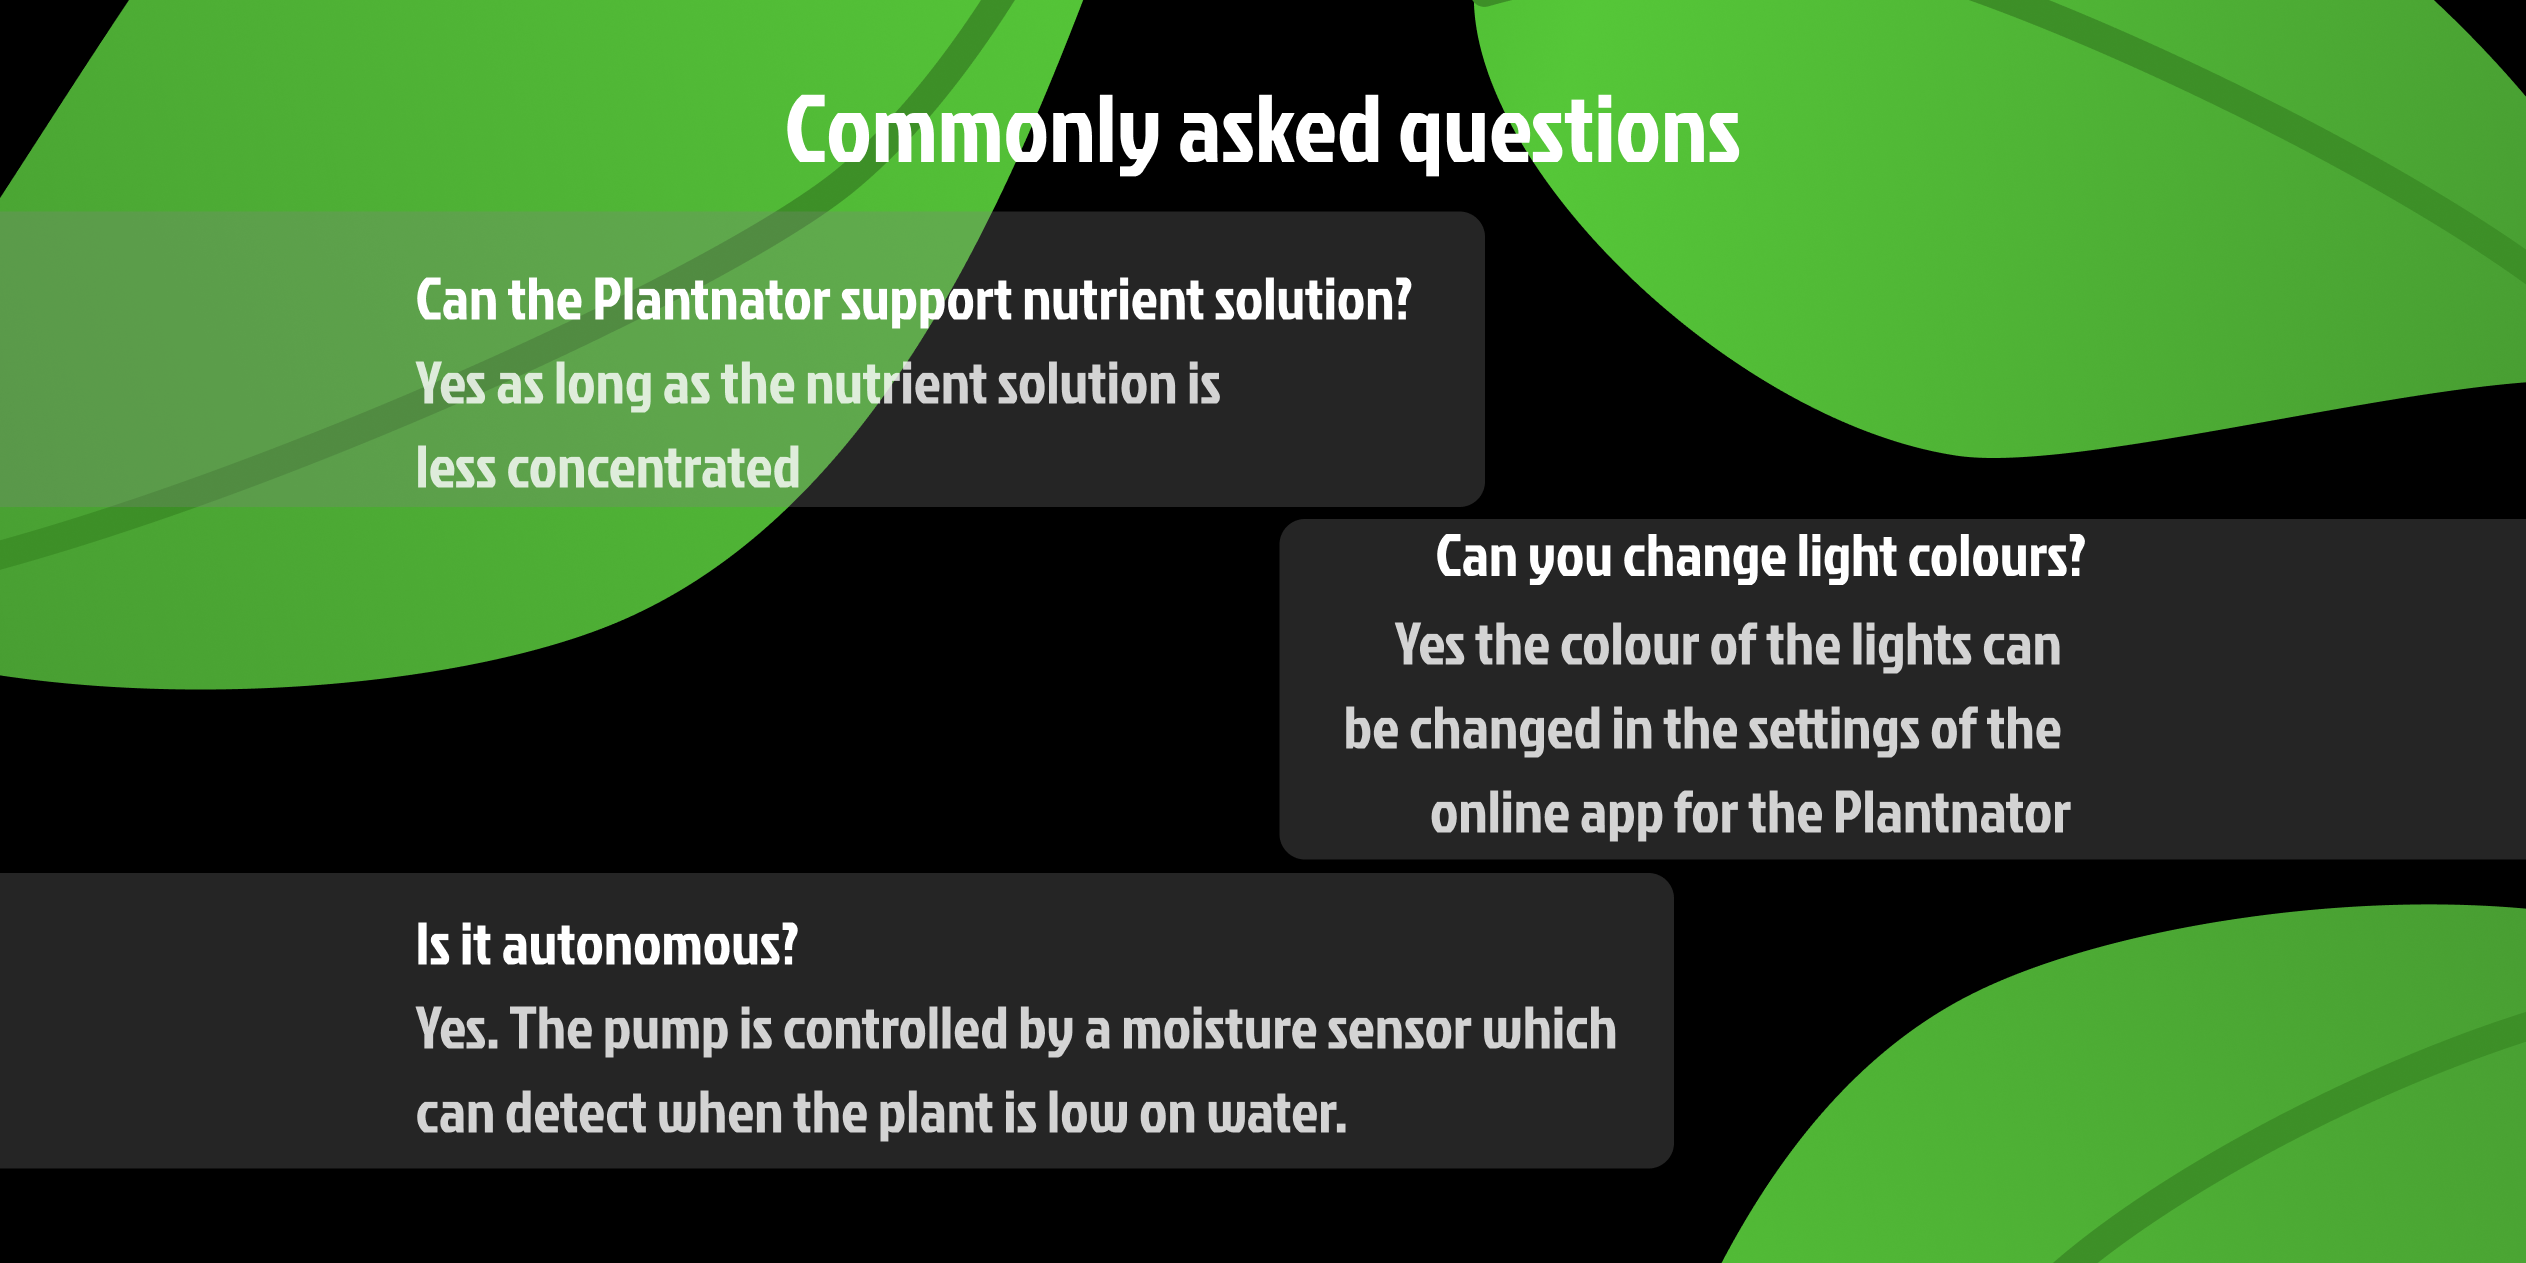
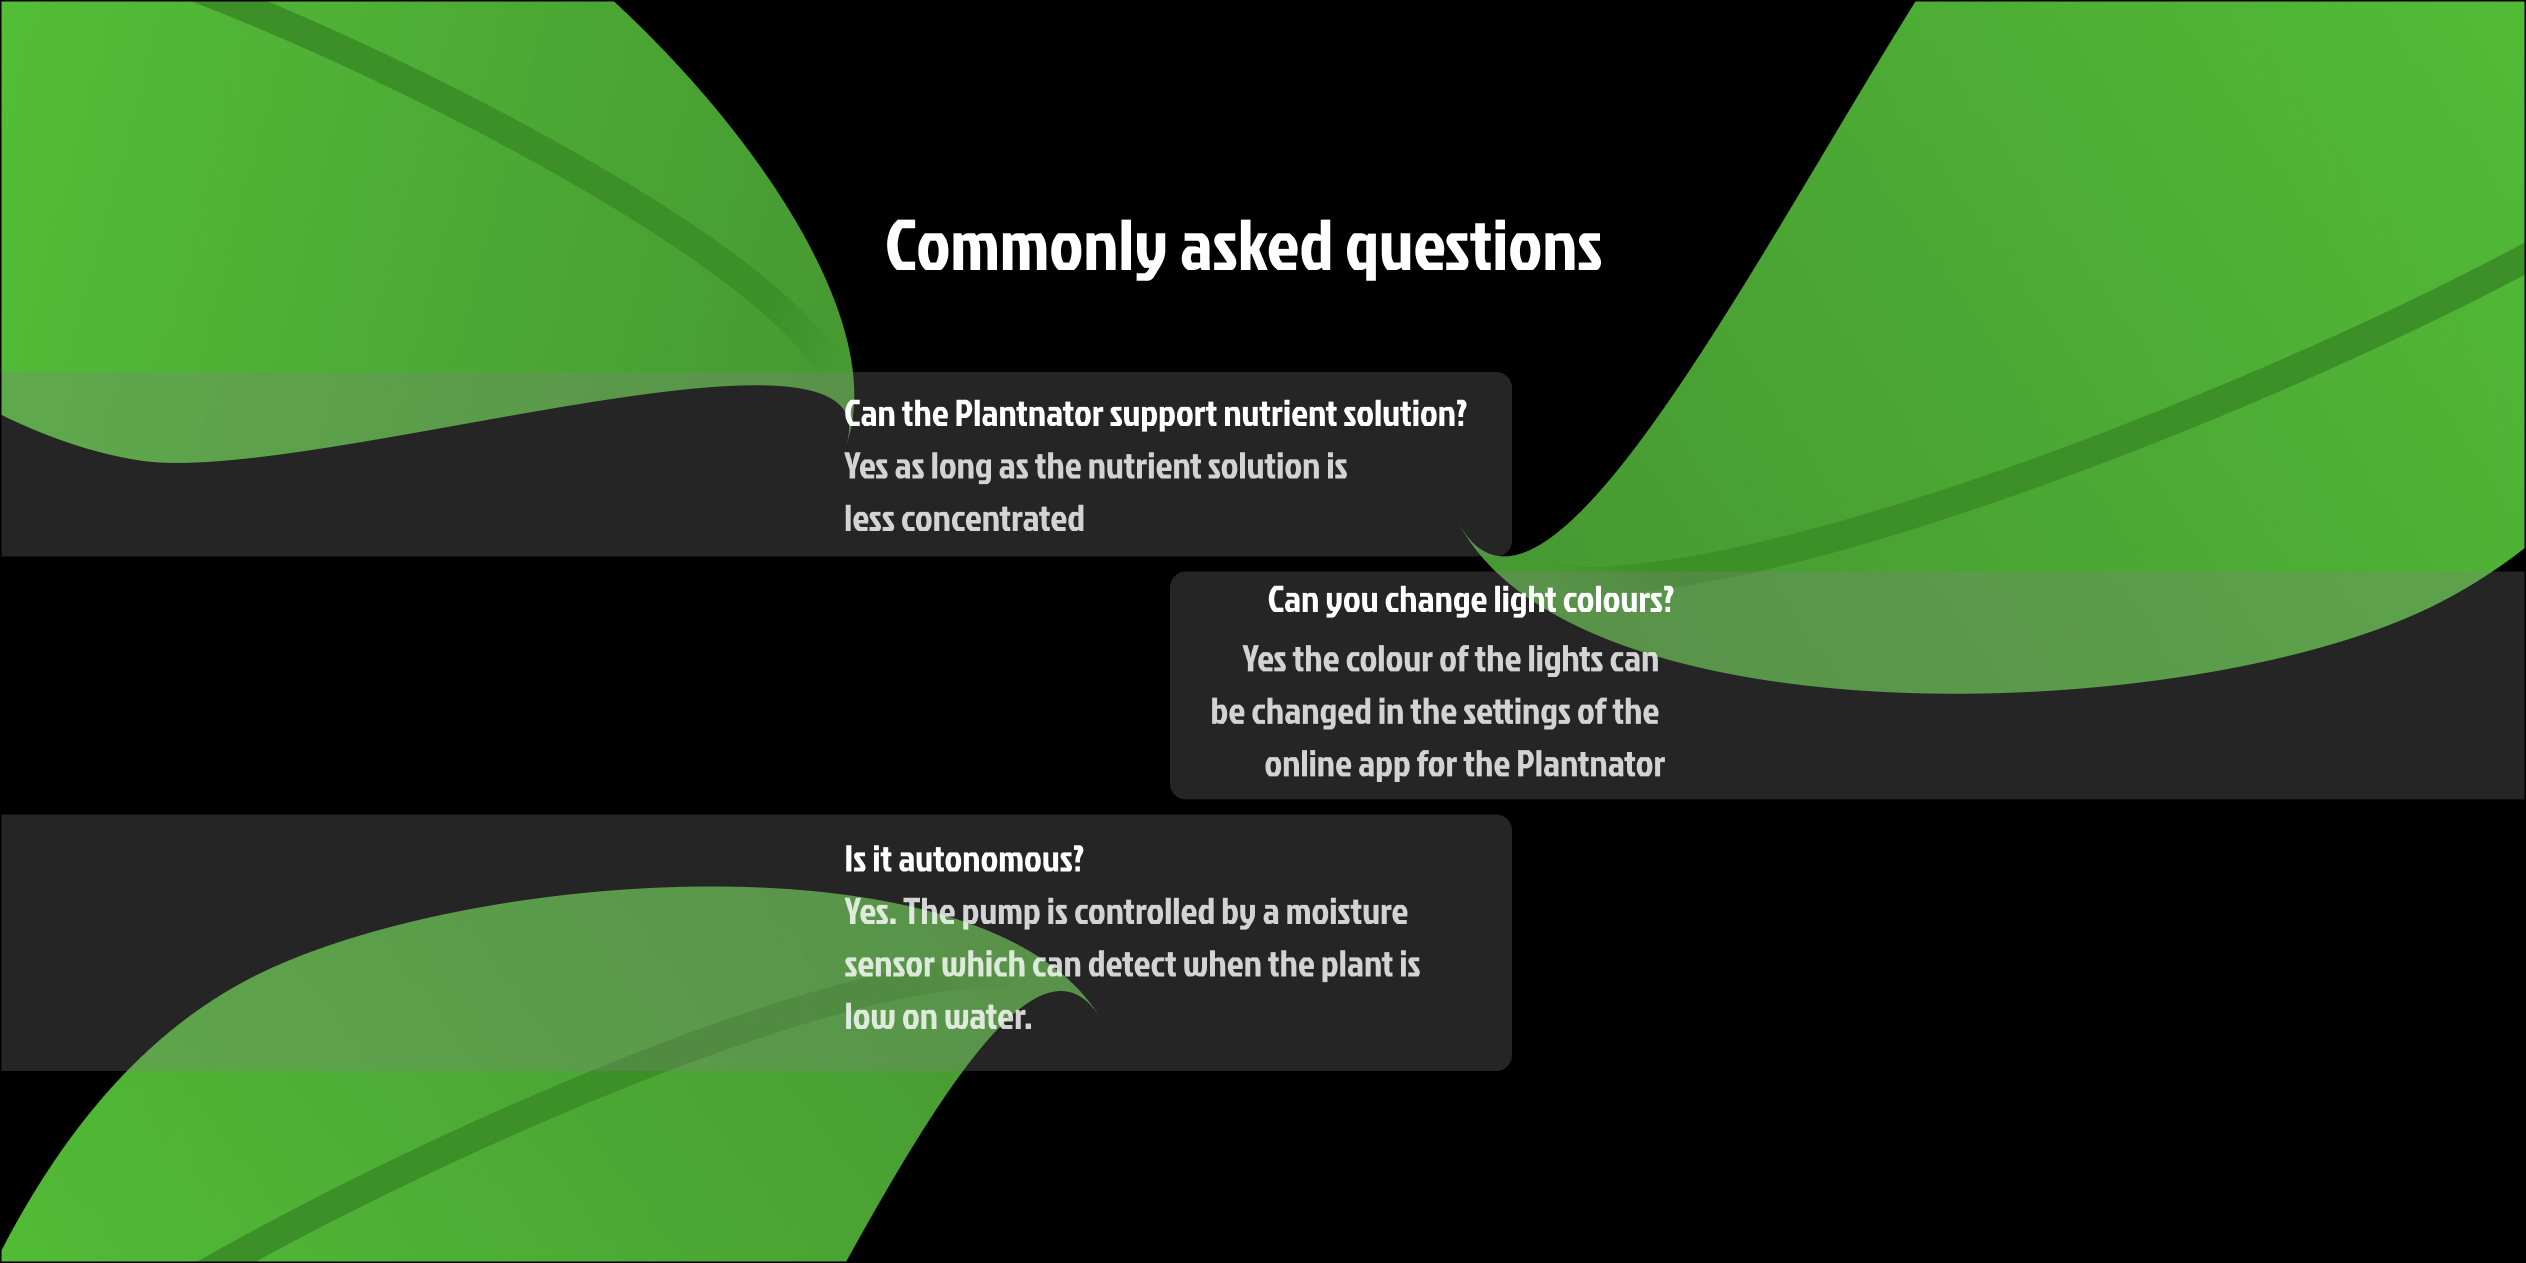
IMAGES GO BRRRRR

diff --git a/components/ui/full-card-carousel.jsx b/components/ui/full-card-carousel.jsx
@@ -21,7 +21,7 @@ export function FullCardCarousel({content}) {
             <div className="font-medium flex-grow-0 bg-opacity-0 rounded-[1rem] overflow-clip align-text-top  aspect-[16/8]">
                 <div className={`flex justify-center w-full self-center bg-tertiary`}>
 
-                    <div className='relative w-full aspect-[16/8]'>
+                    <div className='relative w-full md:aspect-[16/8] aspect-[3/4]'>
                         <Image
                             src={content[index].image}
                             fill
